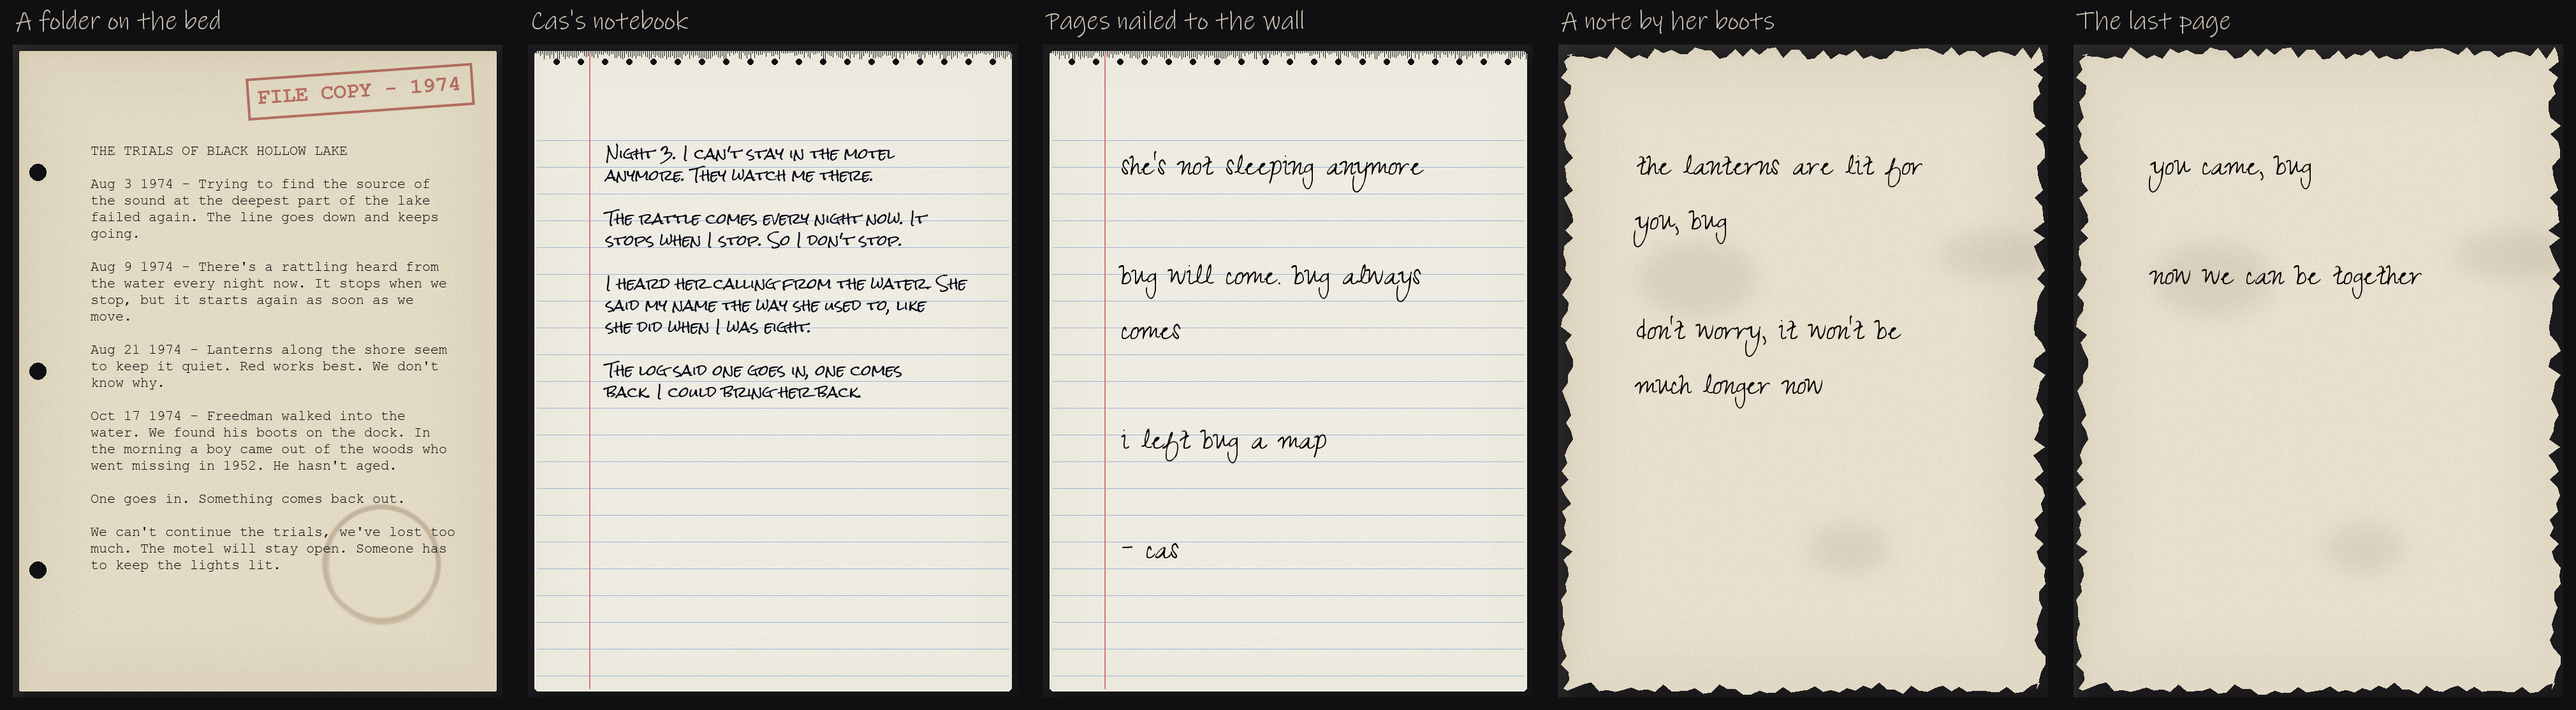
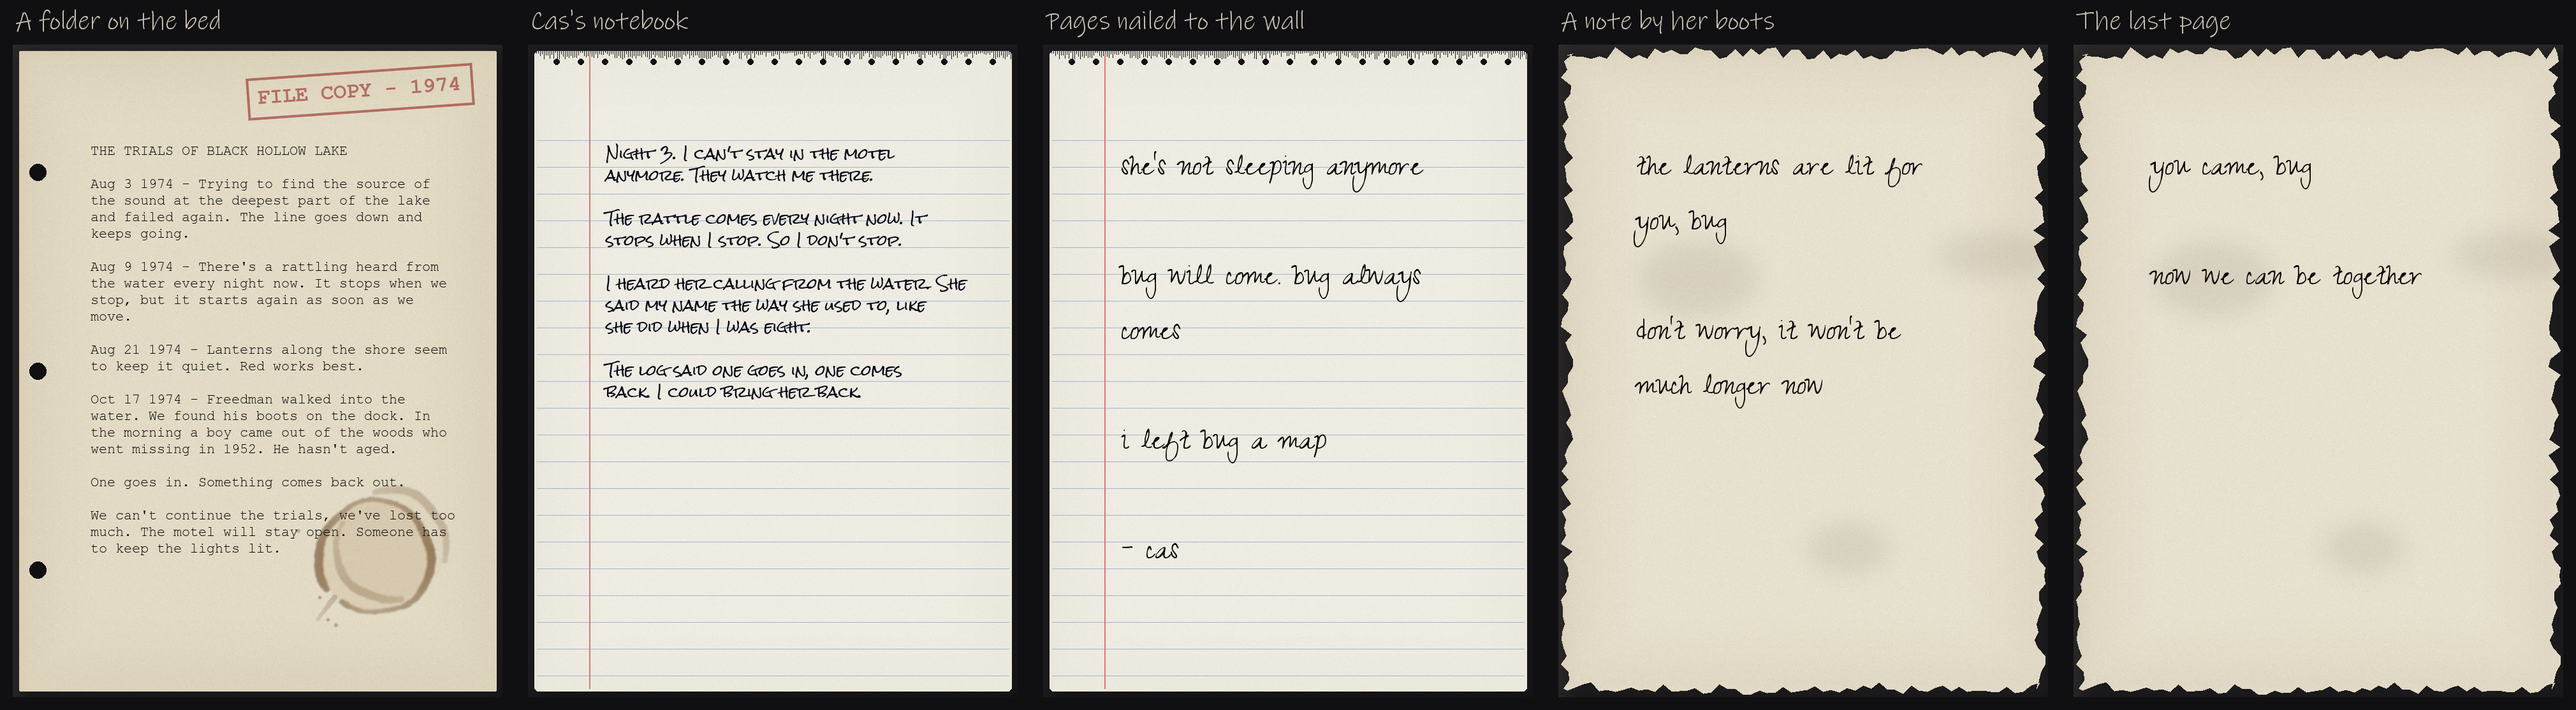
Trials log: 'and failed again', drop 'We don't know why', realistic coffee ring

Changed region(s): [[0.0312, 0.6715, 0.1871, 0.8851], [0.0312, 0.5494, 0.1559, 0.6409], [0.0312, 0.3052, 0.0624, 0.3357]]

diff --git a/RESEARCH_PROJECT_1/tools/make_papers.py b/RESEARCH_PROJECT_1/tools/make_papers.py
@@ -111,6 +111,46 @@ def notebook():
     save(img, "notebook")
 
 
+def coffee_stain(img, cx, cy, r, rng):
+    """A dried coffee ring like a real one (user, 2026-11-17: make it look more realistic): a pale
+    brown wash inside, the edge darker and uneven where the coffee dried (thick in places, thin and
+    broken in others, a slightly wobbly circle), a second fainter ring a little offset from setting the
+    mug down again, and a drip and a couple of splash dots."""
+    def ring_layer(cx, cy, r, strength, gaps):
+        lay = Image.new("RGBA", (W, H), (0, 0, 0, 0))
+        d = ImageDraw.Draw(lay)
+        d.ellipse((cx - r * 0.97, cy - r * 0.97, cx + r * 0.97, cy + r * 0.97), fill=(150, 100, 45, int(26 * strength)))  # the wash
+        steps = 260
+        ph1, ph2 = rng.uniform(0, 6.28), rng.uniform(0, 6.28)
+        for k in range(steps):
+            t = k / steps * 2 * math.pi
+            if any(a0 <= t <= a1 for a0, a1 in gaps):
+                continue
+            rr = r * (1 + 0.025 * math.sin(3 * t + ph1) + 0.012 * math.sin(7 * t + ph2))      # not a perfect circle
+            wdt = 2.5 + 3.5 * (0.5 + 0.5 * math.sin(2 * t + ph2)) + rng.uniform(-0.8, 0.8)    # thick and thin
+            x, y = cx + rr * math.cos(t), cy + rr * math.sin(t)
+            alpha = int(strength * (95 + 50 * (0.5 + 0.5 * math.sin(2 * t + ph2))))
+            d.ellipse((x - wdt, y - wdt, x + wdt, y + wdt), fill=(96, 58, 22, alpha))
+            if rng.random() < 0.35:                                          # a darker crust just inside the edge
+                xi, yi = cx + (rr - wdt) * math.cos(t), cy + (rr - wdt) * math.sin(t)
+                d.ellipse((xi - 1.2, yi - 1.2, xi + 1.2, yi + 1.2), fill=(80, 46, 16, int(alpha * 0.8)))
+        return lay.filter(ImageFilter.GaussianBlur(1.4))
+    img.alpha_composite(ring_layer(cx, cy, r, 1.0, [(2.2, 2.55)]))
+    img.alpha_composite(ring_layer(cx + 26, cy - 18, r * 0.98, 0.45, [(0.3, 1.4), (3.6, 4.4)]))
+    lay = Image.new("RGBA", (W, H), (0, 0, 0, 0))                         # a drip running off the edge, splash dots
+    d = ImageDraw.Draw(lay)
+    for k in range(18):
+        t = k / 17
+        x, y = cx - r * 0.72 - t * 26, cy + r * 0.72 + t * 34
+        d.ellipse((x - 4 + t * 2, y - 4 + t * 2, x + 4 - t * 2, y + 4 - t * 2), fill=(110, 68, 28, int(70 - 30 * t)))
+    for _ in range(4):
+        a_, dist = rng.uniform(0, 6.28), r * rng.uniform(1.15, 1.45)
+        x, y = cx + dist * math.cos(a_), cy + dist * math.sin(a_)
+        rad = rng.uniform(1.5, 3.5)
+        d.ellipse((x - rad, y - rad, x + rad, y + rad), fill=(100, 60, 24, 90))
+    img.alpha_composite(lay.filter(ImageFilter.GaussianBlur(0.8)))
+
+
 def typed():
     rng = random.Random(3)
     img = sheet((226, 218, 196), rng, corners=2)
@@ -119,12 +159,7 @@ def typed():
     d = ImageDraw.Draw(img)
     for y in (200, H // 2, H - 200):                     # three punched holes on the left
         d.ellipse((26, y - 13, 52, y + 13), fill=(0, 0, 0, 0))
-    ring = Image.new("RGBA", (W, H), (0, 0, 0, 0))       # a coffee ring, bottom right
-    rd = ImageDraw.Draw(ring)
-    cx, cy, r = W - 190, H - 210, 92
-    rd.ellipse((cx - r, cy - r, cx + r, cy + r), outline=(120, 80, 40, 70), width=7)
-    rd.arc((cx - r + 6, cy - r + 4, cx + r - 2, cy + r + 3), 20, 200, fill=(110, 70, 30, 50), width=4)
-    img.alpha_composite(ring.filter(ImageFilter.GaussianBlur(1.2)))
+    coffee_stain(img, W - 200, H - 220, 88, rng)                 # a mug set down on it, twice
     stamp = ImageFont.truetype("C:/Windows/Fonts/courbd.ttf", 34)                # file stamp, top right
     st = Image.new("RGBA", (360, 70), (0, 0, 0, 0))
     sd = ImageDraw.Draw(st)

diff --git a/RESEARCH_PROJECT_1/process/README.md b/RESEARCH_PROJECT_1/process/README.md
@@ -221,3 +221,8 @@ Preview (drawn outside the game with the same fonts, sizes and line breaks) of t
 reading screens: the researchers' typed 1974 log, Cas's notebook, the wrong-hand pages nailed in the shack,
 the note by her boots and the last page. It caught the typed log and the wrong hand being far too big
 (running off the sheet), so their sizes were cut (typed 0.85 -> 0.48, wrong hand 1.35 -> 1.15).
+
+## 2026-11-17_trials_log_preview.png
+The researchers' log after the user's edits: Aug 3 now reads "... and failed again", "We don't know why."
+is gone from Aug 21, and the coffee stain is a realistic dried ring (uneven darker edge, pale wash inside,
+a fainter second ring from setting the mug down again, a drip and splash dots; make_papers.coffee_stain).
